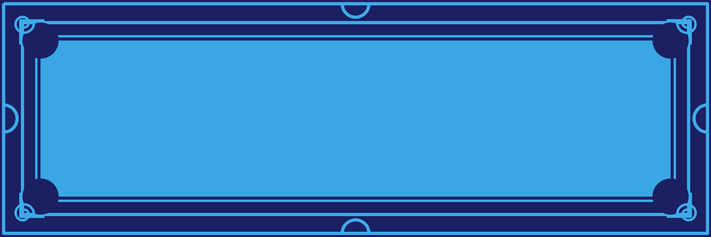
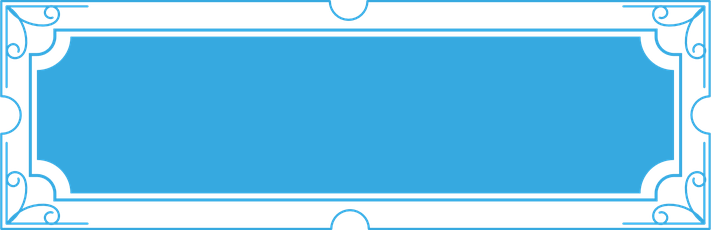
Main menu: the designer's real frames and divider instead of the redrawn mockups
- Cog and wide button frames and the ornament divider are extracted from MockupASCENT.ai
  (matted from black/white renders), replacing the clean redraws and the separate gear icon
- MenuStyle draws the frames whole, tighter entry spacing so the column clears the buttons
- Removed tools/ui/generate_menu_frames.py and menu_gear.png

diff --git a/claude.md b/claude.md
@@ -5242,7 +5242,7 @@ first working version).
 
 **App shell** (`ui/`, `player/`):
 
-- **Main menu restyle (2026-10-22, branch `experiment/menu-restyle`, from the designer's mockup)**: `MainMenu` builds its pages in code now (`MainMenu.tscn` only keeps Background, Dim and the two FileDialogs): logo top left with an "Unofficial App" subtitle and the entries centred under it - Load game / New game / Editor (second page: Mission editor, Campaign editor, Play one mission, Load a mission save, Back) / Quit -, the cog (Options) and a **Community** button bottom left (the mockup says "Collection"; mapped to Community, rename if wanted), Credits + What's new + version bottom right. `MenuStyle` (`scripts/MenuStyle.gd`, static) = the look: **Cinzel** (`fonts/Cinzel.ttf`, OFL, variable weight, lowercase renders as small caps) for entries with an outline, an ornament divider under each (`models/ui/menu_divider.png`, keyed out of the mockup screenshot: white, alpha) and `StyleBoxTexture` framed buttons (`models/ui/menu_button_square.png` / `menu_button_wide.png`, gear icon `menu_gear.png`) - the frames are a CLEAN REDRAW by `tools/ui/generate_menu_frames.py` (the screenshot's 1px lines could not be extracted), not the designer's art: replace the PNGs (or `MenuStyle` paths) when he delivers real assets (ask for SVG + 2x PNG, 9-slice friendly). **"Game assets" is a tab of the Options dialog now** (`AssetImportPanel`, was `AssetImportDialog`; `VoiceSettingsDialog` tabs: General, Voice, AI, Game assets) - the main menu button is gone. Compile-checked and screenshotted in a real 1152x648 window (main, Options > Game assets, editors page); button hover looks and the Community button label not judged.
+- **Main menu restyle (2026-10-22, branch `experiment/menu-restyle`, from the designer's mockup)**: `MainMenu` builds its pages in code now (`MainMenu.tscn` only keeps Background, Dim and the two FileDialogs): logo top left with an "Unofficial App" subtitle and the entries centred under it - Load game / New game / Editor (second page: Mission editor, Campaign editor, Play one mission, Load a mission save, Back) / Quit -, the cog (Options) and a **Community** button bottom left (the mockup says "Collection"; mapped to Community, rename if wanted), Credits + What's new + version bottom right. `MenuStyle` (`scripts/MenuStyle.gd`, static) = the look: **Cinzel** (`fonts/Cinzel.ttf`, OFL, variable weight, lowercase renders as small caps) for entries with an outline, an ornament divider under each (`models/ui/menu_divider.png`, keyed out of the mockup screenshot: white, alpha) and `StyleBoxTexture` framed buttons (`models/ui/menu_button_square.png` = the cog, gear included, `menu_button_wide.png`, drawn whole - their aspect already matches the buttons). **The frames and the divider are the designer's REAL art (2026-10-26)**, pulled out of his Illustrator file `MockupASCENT.ai` (it is a PDF-compatible file: render a page with the Windows PDF renderer, once over flat black and once over flat white with the background image swapped out, and matte the alpha from the two renders - plain layer renders lose the buttons; the live text is hidden with `3 Tr`; the divider needed its dark shadow-text pixels keyed out) and shrunk to 3x the 1024x768 mockup size; the earlier clean redraw (`tools/ui/generate_menu_frames.py`, `menu_gear.png`) is gone. The mockup's other screens (list rows, hexagonal cards, detail page, Install / Begin Campaign buttons) are NOT used yet - see the New game rework. **"Game assets" is a tab of the Options dialog now** (`AssetImportPanel`, was `AssetImportDialog`; `VoiceSettingsDialog` tabs: General, Voice, AI, Game assets) - the main menu button is gone. Compile-checked and screenshotted in a real 1152x648 window (main, Options > Game assets, editors page); button hover looks and the Community button label not judged.
 - `MainMenu` — **revamped 2026-10-07: the main page is about playing campaigns** - (no "Continue" - removed again) "New Campaign" and "Load Campaign" (both open the campaign screen on the matching page; Load is disabled without save games), "Editors & Tools" and "Exit". "Editors & Tools" is a second page
   of the same scene (`%MainPanel`/`%EditorsPanel`) for authors/testers: Mission Editor, Campaign Editor, Play a Single
   Mission (a `FileDialog` over `user://missions/`, loads `MissionPlayer.tscn` with the chosen path via `GameState`),
